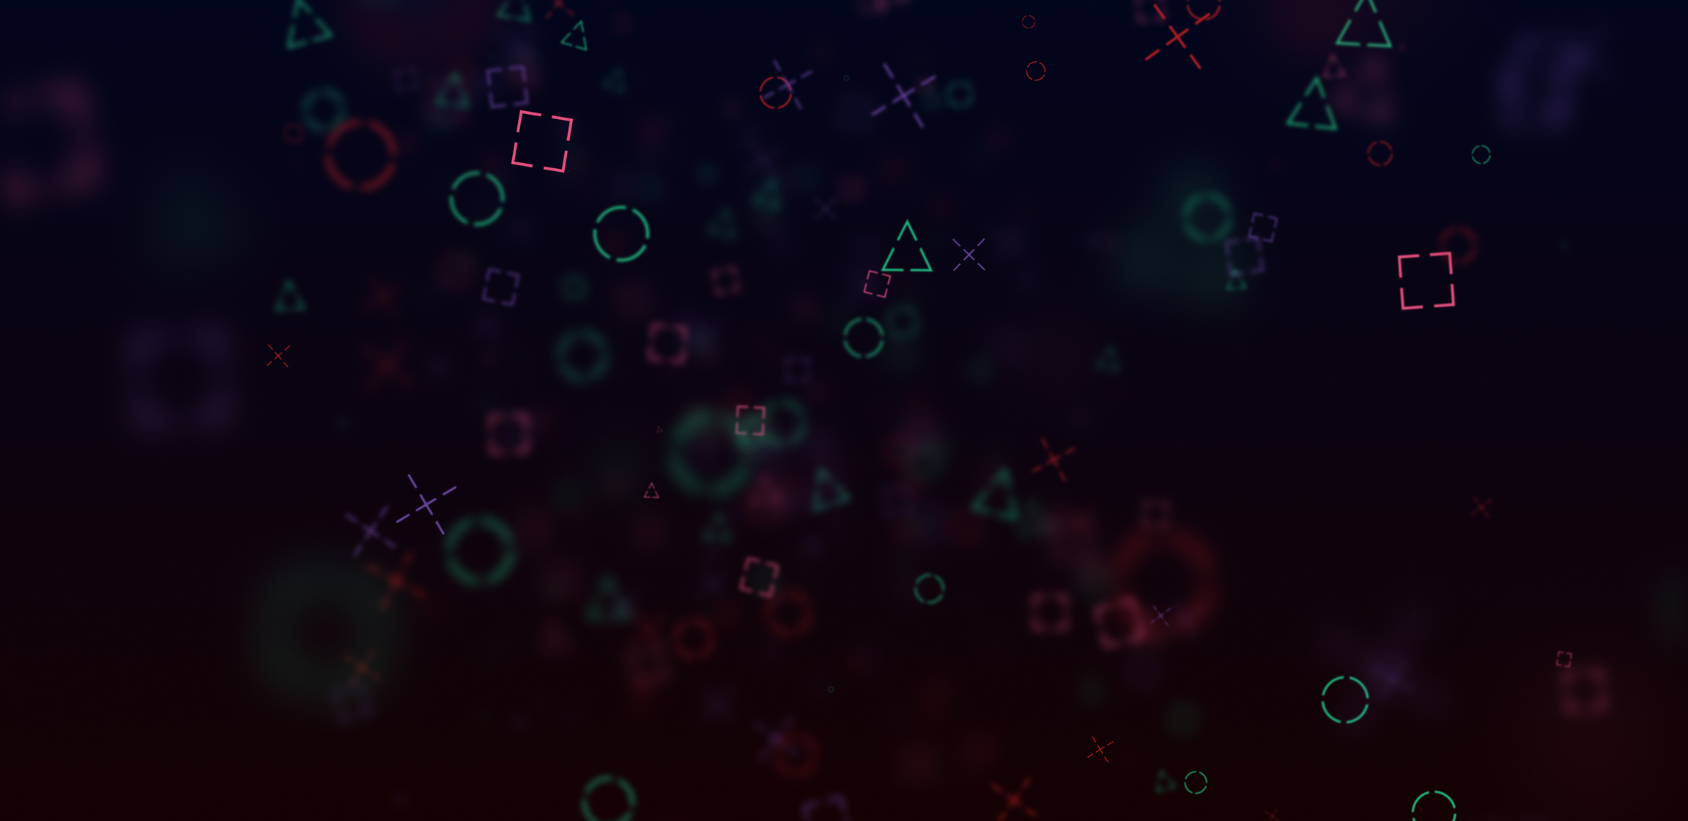
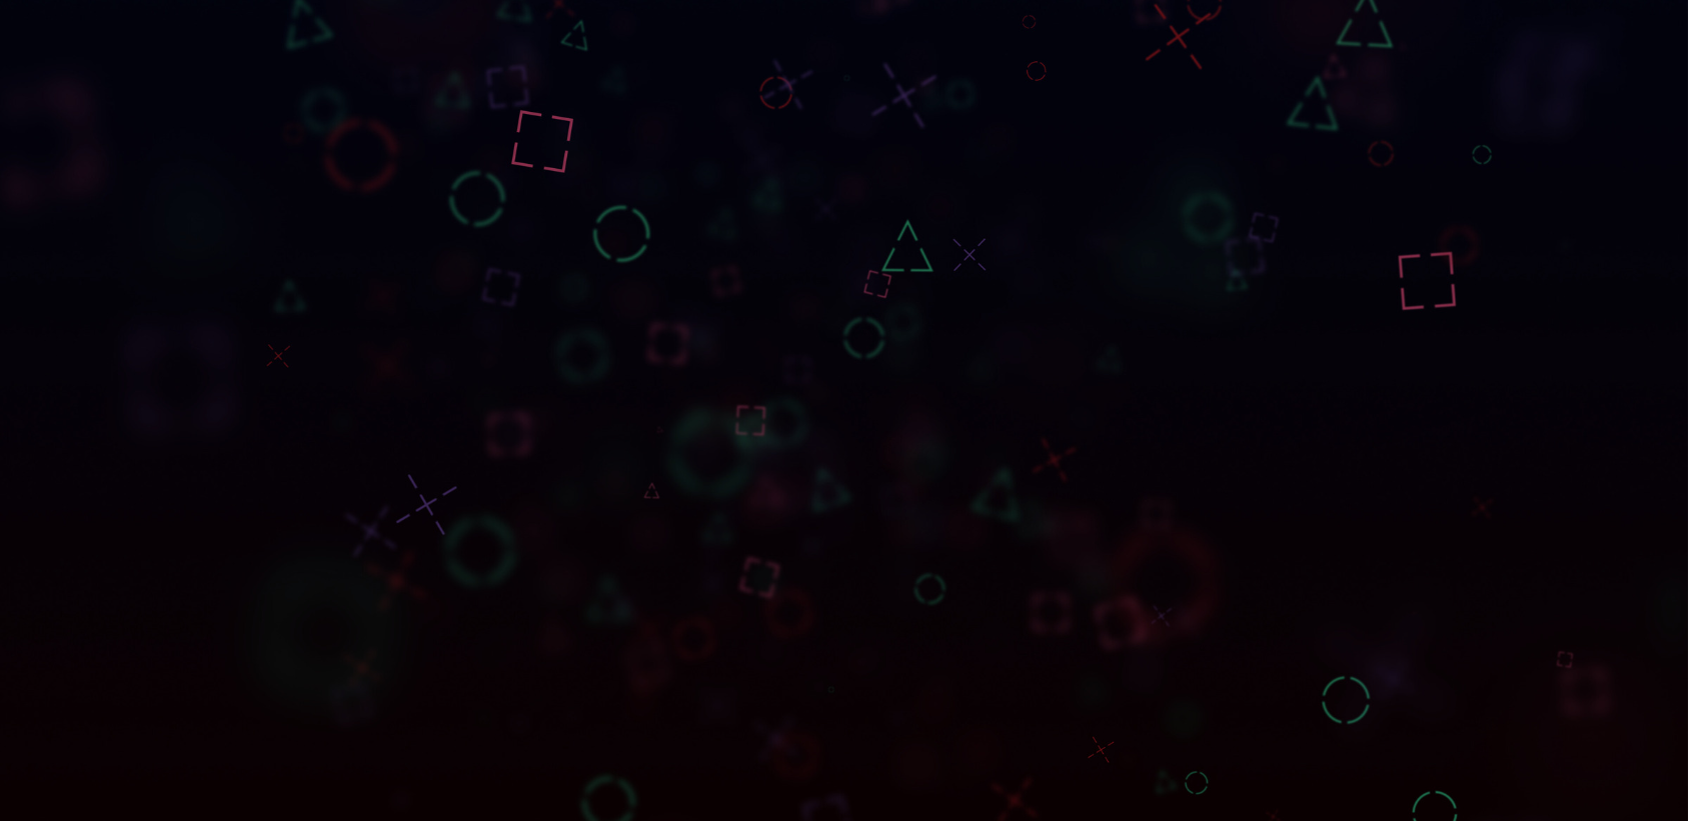
contact form edits

diff --git a/index.css b/index.css
@@ -341,7 +341,8 @@ nav ul li a:hover {
 
 /* start: posts/comments styles */
 #posts-comments {
-  background: url("assets/contact_background.png") 0 0 no-repeat;
+  background: url("assets/Contact_background.png") 0 0 no-repeat;
+  
   padding: 75px 0;
 }
 
@@ -351,12 +352,16 @@ nav ul li a:hover {
 }
 
 #posts-comments .game-warrior p {
-  color: #eee;
-  font-weight: 600;
+  font-size: 1.1rem;
+  margin-top: 0px;
+  font-weight: 300;
+  color: white;
+  
 }
+
+
 #posts-comments .game-warrior .developer {
   color: #ffff;
-  margin-top: 250px;
   font-size: 1.3rem;
   font-weight: 600;
   line-height: 1.5;
@@ -388,6 +393,7 @@ nav ul li a:hover {
   padding: 20px 20px 25px;
   border: 1px solid #4a4a4a;
   border-radius: 1rem;
+  min-height: 300px;
 }
 
 #posts-comments .posts-comments-box h3 {
